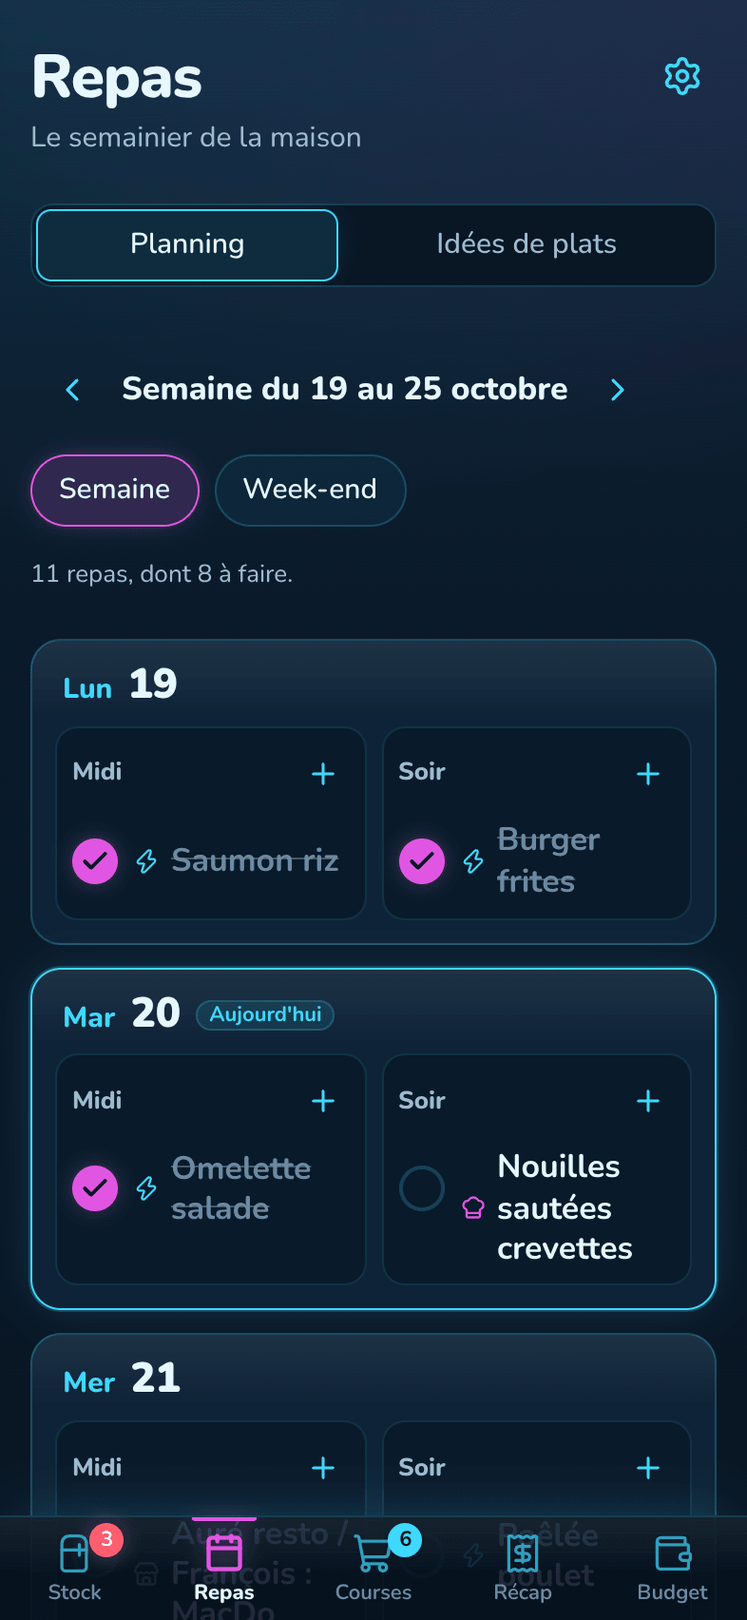
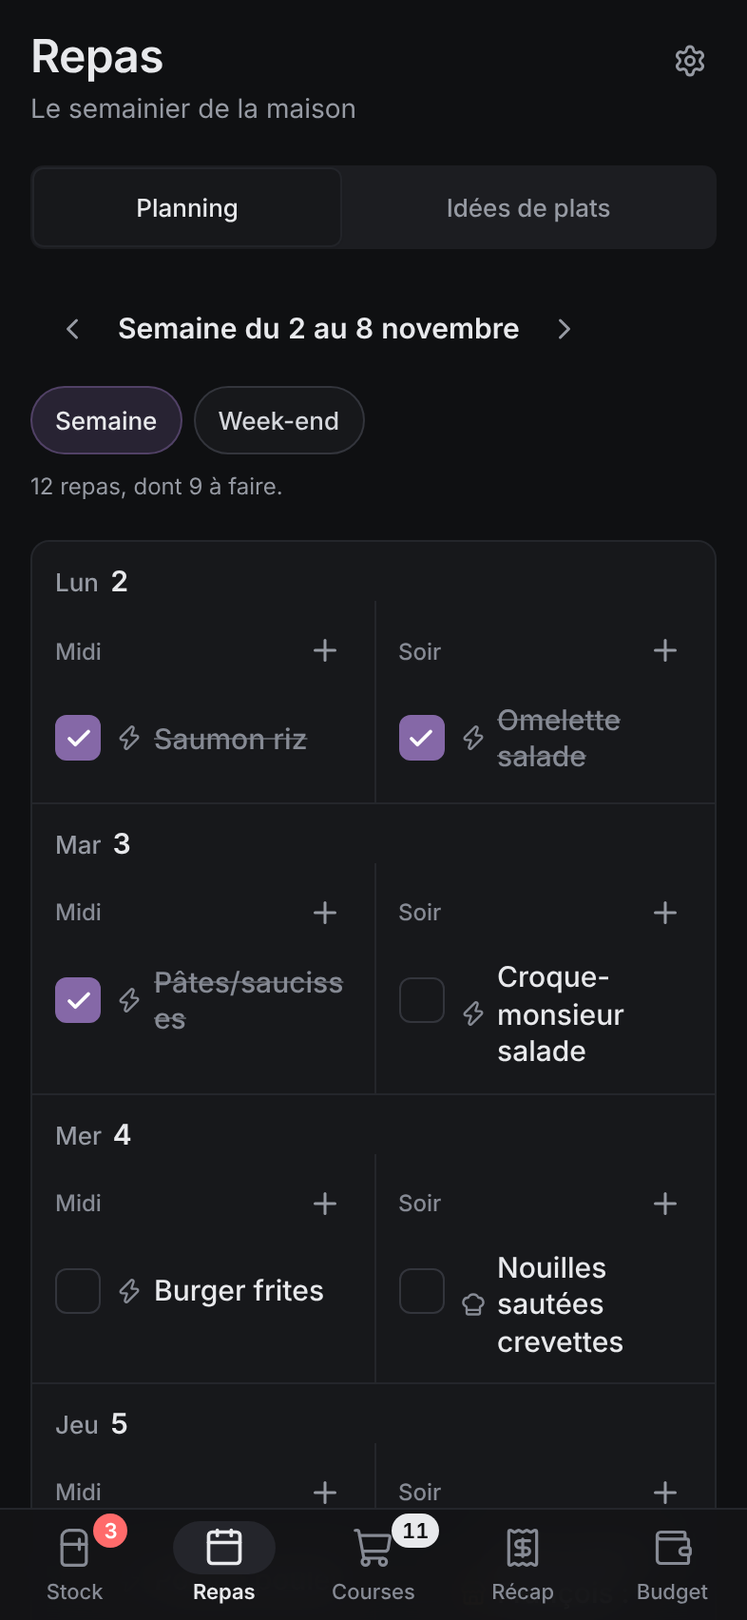
Documentation et captures de la charte v2
design/DESIGN.md décrit la charte v2 pour Cuisine (jetons, densité,
couleurs de données, icône) ; CLAUDE.md et README suivent. Captures
refaites avec des données d'exemple simulées.

Claude-Session: https://claude.ai/code/session_01H9uGifEaXxkMuqMiB9L3cZ

diff --git a/design/DESIGN.md b/design/DESIGN.md
@@ -1,23 +1,24 @@
-# atelier_Cuisine — design UI
+# Atelier Cuisine — design UI
 
-L'app de cuisine du foyer d'Auré et François : le stock du frigo et des placards, le semainier des repas, la liste de courses, les tickets de caisse et le budget.
+L'app de cuisine du foyer d'Auré et François : le stock du frigo et des placards, le semainier des repas, la liste de courses, les tickets de caisse et le budget. Utilisée à deux, sur Mac et surtout sur iPhone, en cuisine ou en magasin.
 
 **Tâche principale de l'interface :** montrer d'un coup d'œil ce qu'il faut finir en premier, puis ce qu'on mange et ce qu'on achète.
 
-## Direction : néon monochrome (charte v2 de la suite Atelier)
+## Direction : charte v2 « Linear » de la suite Atelier
 
-L'app suit la charte « néon monochrome » partagée par toutes les applications de la suite Atelier (Projets, Viz, Tab, Ciné, Trésorerie, Savoir, Nexus, Dates, Cuisine) : **chaque app est entièrement dans sa couleur signature**. Pour Cuisine, un **lilas pastel** (choix du foyer, à la place de l'orchidée `#E056E2` prévue par la suite) : `#C8B5F2` en néon, `#9B84DC` en clair. Fond, barre latérale, verre, traits, textes secondaires, halos et grille en dérivent par mélange et transparence, en néon (sombre) comme en clair. Il n'y a plus ni fond bleu nuit ni structure cyan (la v1 « néon holographique » est remplacée).
+L'app suit le système commun de la suite (règles complètes : `Atelier_Deploy/DESIGN.md`, contrat : `Atelier_Projets/docs/SUITE.md` §1) : **une structure neutre en gris froids**, la même dans toutes les apps, en clair comme en sombre, plate au repos, traits de 1 px, police Inter. Chaque app garde **sa couleur signature comme seul accent** ; pour Cuisine, la **lavande `#8568a7`** (`--atelier-sig-cuisine`, 4,5:1 avec du texte blanc).
 
-- **Néon (défaut)** : fond quasi noir teinté de lilas avec une fine grille et une lueur en haut, panneaux de verre cerclés d'un trait lilas lumineux avec halo, action principale en contour néon.
-- **Clair** : fond lilas très pâle avec la même grille, cartes blanches cerclées de lilas avec un léger halo, action principale pleine.
+- La lavande ne sert qu'à ce qui a un sens : bouton principal (plein, dans les deux thèmes), sélection (puce pressée, type de repas choisi, case cochée), focus, liens, l'icône de l'app, la courbe des prix et la jauge Sorties / Resto (une seule mesure).
+- Pas de halo, de lueur, de grille de fond, de `text-shadow`, de contour lumineux ni de barre de couleur à gauche. Une ombre seulement pour ce qui flotte : feuilles, toasts, bulle du graphique, barre « Valider & archiver ».
+- Navigation : l'onglet courant a un fond neutre (`--atelier-surface-3`), jamais de couleur.
 
 ### Le kit commun
 
-`frontend/src/styles/atelier-brand/atelier-brand.css` est une **copie exacte** du fichier de marque de la suite (source : Atelier_Projets `design-system/brand/`), avec la police `nunito-latin-wght-normal.woff2` (« Atelier Brand ») et sa licence `OFL-Nunito.txt`. Ne jamais l'éditer ici : toute modification se fait à la source puis dans chaque copie. Il définit, pour les deux thèmes, tous les jetons `--atelier-*` dérivés de la signature.
+`frontend/src/styles/atelier-brand/` contient des **copies verbatim** de `Atelier_Projets/design-system/brand/` : `atelier-brand.css` (jetons `--atelier-*`, marque, fenêtre « À propos »), `atelier-theme.js` (préférence de thème commune), `inter-latin-wght-normal.woff2`, `inter-latin-ext-wght-normal.woff2` et `LICENSE-Inter.txt`. Ne jamais les éditer ici : toute modification se fait à la source puis dans chaque copie (ils sont exclus du lint).
 
 - Activation : `<html data-atelier-app="cuisine">` (`frontend/index.html`).
-- Thème : néon = `data-theme="dark"` **et** classe `dark` ; clair = `data-theme="light"`. Le choix Néon / Clair / Selon le système reste dans les Réglages (préférence `atelier.reglages` en `localStorage`, néon par défaut) ; un script anti-flash dans `index.html` pose les marqueurs avant le premier rendu, puis `appliquerTheme` (`src/lib/donnees.tsx`) les tient à jour, y compris quand le système change de thème.
-- Couleurs littérales obligatoires alignées sur `--atelier-bg` : `#100f15` (signature à 6 % dans `#07070A`) pour la fenêtre Tauri (`backgroundColor`), le `theme-color` et le manifeste PWA ; `#f6f5fc` (5 % dans `#FBFBFD`) pour le `theme-color` en clair.
+- Thème : choix **Système / Clair / Sombre** dans Réglages → Apparence, branché sur `window.atelierTheme.set(pref)`. `atelier-theme.js` est inséré tel quel en script bloquant au début de `<head>` par `vite.config.ts` ; il pose `data-theme="light|dark"`, `data-theme-pref` et la classe `dark` avant l'affichage, et garde la préférence dans `localStorage["atelier:theme"]` (cookie `atelier_theme` sur le domaine de la suite quand l'app y est servie). L'ancienne préférence (`theme` dans `atelier.reglages`) est reprise une fois puis retirée.
+- Barre d'état : un petit script d'`index.html` suit `data-theme` et met `theme-color` à `#fbfbfc` (clair) ou `#0f1012` (sombre), les fonds `--atelier-bg`. Le manifeste PWA et la fenêtre Tauri partent de `#fbfbfc`.
 
 ### Jetons de l'app (`tokens.css`)
 
@@ -25,61 +26,47 @@ Les noms de l'app sont branchés sur le kit ; leurs valeurs suivent le thème to
 
 | Jeton | Branché sur | Rôle |
 |---|---|---|
-| `--nuit` / `--bg` | `--atelier-bg` | fond des écrans (toujours `background: var(--atelier-backdrop), var(--atelier-bg)`, jamais en `background-image`) |
-| `--nuit-2` / `--bg-creux` | `--atelier-sidebar` | barre latérale, zones creusées |
-| `--verre` / `--verre-plein` / `--surface` | `--atelier-surface` (86 % / opaque) | panneaux, listes, feuilles |
-| `--verre-haut` | lilas à 7 % | reflet en haut des panneaux |
-| `--survol` / `--selection` / `--champ-fond` | `--atelier-surface-2` / `-3` / `--atelier-field` | survol, sélection, champs |
-| `--contour` | `--atelier-border` | contour des cartes et panneaux (+ `--halo`) |
-| `--trait` | `--atelier-border-soft` | champs, boutons secondaires, puces |
-| `--ligne` | `--atelier-line` | séparateurs, lignes de tableau, grille des graphiques |
-| `--encre` / `--encre-2` / `--encre-3` | `--atelier-text` / `--atelier-muted` / muted adouci | texte, texte secondaire, texte tertiaire (≥ 4,5:1) |
-| `--signature` / `--action` / `--focus` | `--atelier-signature` (`#C8B5F2` / `#9B84DC`) | couleur signature, action principale, contour de focus |
-| `--signature-texte` / `--lavande-encre` | `--atelier-ink` | lilas en texte ou en icône (lisible sur les deux fonds) |
-| `--signature-douce` / `--lavande` | `--atelier-signature-soft` | élément actif, pastille |
-| `--signature-legere` | `--atelier-signature-faint` | survol |
-| `--signature-encre` | `--atelier-signature-contrast` | texte posé sur le lilas plein |
-| `--halo` / `--halo-fort` / `--ombre-feuille` | `--atelier-glow` / `--atelier-glow-strong` | cartes ; feuilles, menus, bulles, toasts |
-| `--glow-signature` / `--texte-neon` | `--atelier-signature-glow` / `--atelier-text-glow` | action principale ; titres d'écran |
-| `--frais` / `--bientot` / `--urgent` | inchangés : `#3DDC97` / `#FFB347` / `#FF5C6C` (clair `#12804F` / `#A85F00` / `#CC2B3B`) | fraîcheur (et montants négatifs pour le rouge) |
+| `--bg` | `--atelier-bg` | fond de la zone principale |
+| `--bg-creux` | `--atelier-sidebar` | barre latérale, barre d'onglets, fond d'un ticket déplié |
+| `--surface` | `--atelier-surface` | listes, cartes, feuilles, boutons |
+| `--survol` / `--selection` / `--champ-fond` | `--atelier-surface-2` / `-3` / `--atelier-field` | survol et rail des segments ; onglet courant ; champs |
+| `--contour` / `--trait` / `--ligne` | `--atelier-border` / `-border-soft` / `-line` | cartes ; champs, boutons, puces ; séparateurs |
+| `--encre` / `--encre-2` / `--encre-3` | `--atelier-text` / `-muted` / `-faint` | texte ; secondaire ; méta, icônes au repos |
+| `--signature` / `--signature-survol` | `--atelier-signature` / `-hover` | bouton principal, case cochée, focus |
+| `--signature-texte` | `--atelier-ink` | lavande en texte ou en icône (liens, numéros d'étapes) |
+| `--signature-douce` / `--signature-legere` | `--atelier-signature-soft` / `-faint` | sélection ; ligne du jour dans le semainier |
+| `--ombre-flottant` | `--atelier-glow-strong` | ce qui flotte seulement |
+| `--frais` / `--bientot` / `--urgent` | inchangés : `#3DDC97` / `#FFB347` / `#FF5C6C` (clair `#12804F` / `#A85F00` / `#CC2B3B`) | fraîcheur (et hausses de prix pour le rouge) |
 | `--boite` | inchangé : `#78B4FF` (clair `#2F6FD6`) | produit mis dans une boîte |
 | `--data-ali` / `--data-maison` | inchangés : `#22A86B` / `#9D7BF0` (clair `#1A8F5B` / `#7A56D8`) | budgets Alimentaire / Maison & hygiène |
 
-La couche de matières et les composants sont dans [`neon.css`](../frontend/src/styles/neon.css).
-
-### Couleur signature : le lilas pastel
-
-La charte attribue une couleur à chaque app ; pour Cuisine elle prévoit l'orchidée `#E056E2`. Le foyer a préféré un **lilas pastel** (après un essai en gris argent) : `tokens.css` remplace `--atelier-signature` par un lilas `#C8B5F2` en néon (garde la lueur) et un lilas soutenu `#9B84DC` en clair (texte `#0B0B0F` posé dessus à 6:1), sans toucher au kit de la suite. Tout le reste (fond, verre, traits, halos) en dérive comme avant.
-
-Depuis la v2, elle n'est plus une touche sur une base cyan : **toute l'interface en dérive**. Bouton principal (plein en clair, contour néon en sombre), onglet actif (barre à gauche ou au-dessus, fond en transparence, halo), liens, titres de groupe, icônes, cases cochées, focus, contours et halos des cartes, grille du fond, courbe des prix et jauge globale (une seule mesure, sans sens par couleur).
+Densité : les jetons `--t-base`, `--t-champ`, `--h-ctrl`, `--h-ctrl-sm`, `--h-row` valent 15 px / 16 px / 44 / 36 / 52 px au téléphone (cibles tactiles, pas de zoom automatique de Safari) et 13 px / 14 px / 32 / 28 / 40 px sur un écran de 860 px et plus avec une souris.
 
 ### Couleurs de données
 
-- **Fraîcheur** (spec du foyer) : rouge à moins de 2 jours, orange de 2 à 5 jours, vert au-delà, **bleu** pour un produit mis en boîte. Ces couleurs ne prennent jamais le lilas.
-- **Budget** : vert pour l'Alimentaire (rayons 1 à 9), violet pour Maison & hygiène (rayons 10 et 11), lilas de la signature pour Sorties / Resto. Palette validée (séparation pour les daltonismes, contraste sur les deux fonds) ; le graphique a une légende, une bulle au survol et une vue tableau.
-- Le rouge ne sert qu'aux alertes et aux hausses de prix.
-
-## Matières
-
-1. **Verre** : panneaux translucides (flou d'arrière-plan), trait lilas de 1 px et halo, reflet lilas en haut. Remplacé par un fond opaque si l'utilisateur réduit la transparence.
-2. **Néon** : les enseignes « À finir en premier » et les chiffres du compte à rebours brillent dans la couleur de **leur donnée** (rouge, orange, vert), l'action principale en lilas.
-3. **Fond** : quasi noir (ou très clair) teinté de lilas, fine grille de 32 px et lueur lilas en haut.
+- **Fraîcheur** (spec du foyer) : rouge à moins de 2 jours, orange de 2 à 5 jours, **bleu** pour un produit mis en boîte. Dans les listes, une pastille de 8 px devant le nom et l'échéance en couleur ; un produit frais reste neutre (seuls les états qui demandent d'agir sont colorés). Les tuiles « À finir en premier » sont à peine teintées de la couleur de leur donnée, le chiffre du compte à rebours dans cette couleur.
+- **Budget** : vert pour l'Alimentaire (rayons 1 à 9), violet pour Maison & hygiène (rayons 10 et 11), lavande de la signature pour Sorties / Resto. Le graphique a une légende, une bulle au survol et une vue tableau.
+- Le vert « à la maison » marque les ingrédients disponibles (recette, jauge des idées). Le rouge ne sert qu'aux alertes et aux hausses de prix.
 
 ## Typographie
 
-**Nunito** (variable), la sans-serif arrondie de la charte, embarquée pour fonctionner hors ligne sur Mac. Titres d'écran 32 px (44 px sur Mac) en graisse 850 ; corps 17 px (taille iOS, pas de zoom automatique dans Safari) ; chiffres du compte à rebours 52 px en graisse 900, avec un halo de leur couleur ; montants en chiffres tabulaires. La marque suit le balisage commun de la suite (`.atelier-brand` : tuile cerclée de lilas avec l'icône Lucide `CookingPot`, puis le nom `atelier_Cuisine` en « Atelier Brand », « atelier_ » estompé).
+**Inter** variable, embarquée (aucune requête réseau), variantes `cv11` et `ss03`. Hiérarchie portée par la graisse (400 / 500 / 600). Sur Mac : base 13 px, titre d'écran dans la barre haute en 13 px / 600, titres de section 15 px / 600. Au téléphone : base 15 px, titre d'écran 24 px / 600. Étapes de recette en 17 px, interligne 1,6, numérotées dans une pastille lavande : elles se lisent à un bras de distance. Chiffres tabulaires pour les montants, dates, quantités et le compte à rebours. Les emoji des rayons et des recettes sont des données du foyer (spec), pas des icônes d'interface : toutes les icônes viennent de Lucide.
+
+La marque suit le balisage commun : `button.atelier-brand` > `.atelier-brand__tile` (carré arrondi en dégradé de la lavande, glyphe Lucide `utensils` blanc) + « Atelier » en gris puis « Cuisine ». Un clic ouvre « À propos » (`dialog.atelier-about`). Composant : `frontend/src/components/Marque.tsx`.
 
 ## Les 5 onglets
 
 | Onglet | Icône | Contenu |
 |---|---|---|
-| **Stock** | `Refrigerator` | « À finir en premier » en enseignes néon, saisie en une ligne, produits par emplacement (frigo, corbeille, placard, congélateur, maison) avec niveau rapide, date de l'emballage, mise en boîte et note |
-| **Repas** | `Calendar` | semainier Lundi → Dimanche (ou focus week-end), Midi / Soir, trois types de repas (recette, assemblage rapide, extérieur), cases « cuisiné » ; idées de plats dans le même onglet |
+| **Stock** | `Refrigerator` | « À finir en premier » en tuiles avec compte à rebours, saisie en une ligne, produits par emplacement (frigo, corbeille, placard, congélateur, maison) avec niveau rapide, date de l'emballage, mise en boîte et note |
+| **Repas** | `Calendar` | semainier Lundi → Dimanche (ou focus week-end) : un jour par ligne, Midi et Soir côte à côte ; trois types de repas (recette, assemblage rapide, extérieur), cases « cuisiné » ; idées de plats et recettes pas à pas dans le même onglet |
 | **Courses** | `ShoppingCart` | liste par les 11 rayons, articles proposés depuis le planning, mode magasin (prix et date en cochant), « Valider & archiver » |
-| **Récap** | `Receipt` | bilan du dernier panier, tickets façon ticket de caisse (bord dentelé, pointillés, lignes par rayon), import PDF / photo / texte avec vérification |
+| **Récap** | `Receipt` | bilan du dernier panier, historique des tickets dépliables par rayon, import PDF / photo / texte avec vérification |
 | **Budget** | `Wallet` | plafonds par périmètre, indicateurs du mois, six mois en barres, évolution des prix |
 
-Mise en page : barre d'onglets en bas sur iPhone (zone de sécurité respectée), barre latérale de 248 px sur Mac (≥ 860 px), contenu centré sur 760 px, feuilles qui montent du bas sur iPhone et dialogues centrés sur Mac.
+Mise en page :
+- **Mac (≥ 860 px)** : coquille du portail : barre latérale de 232 px (marque en haut, onglets de 30 px, Réglages en pied), barre haute collante de 44 px avec le titre de l'écran, son résumé et son action, contenu sur une colonne de 880 px, lignes de liste de 40 px, feuilles en dialogues centrés.
+- **iPhone** : barre d'onglets en bas (pastille grise derrière l'icône courante, zone de sécurité respectée) plutôt que la rangée de pastilles du portail, parce que l'app se tient d'une main en magasin ; Réglages en haut à droite ; feuilles qui montent du bas ; lignes de 52 px.
 
 ## Principes
 
@@ -87,28 +74,30 @@ Mise en page : barre d'onglets en bas sur iPhone (zone de sécurité respectée)
 2. **Saisie en une ligne.** « 2 kg de patates » donne quantité, unité, rayon, emplacement et date estimée, grâce au catalogue du foyer.
 3. **Chaque action dit ce qu'elle fait.** « Valider & archiver », « C'est cuisiné », « Confirmer et ajouter au stock & budget » ; le toast reprend le même verbe.
 4. **On vérifie avant d'enregistrer.** Un ticket lu (avec ou sans IA) passe toujours par une modale de vérification ; une déduction de stock se décoche.
-5. **Accessibilité.** Cibles de 44 px, focus lilas visible, contrastes vérifiés sur les deux thèmes, `prefers-reduced-motion` et `prefers-reduced-transparency` respectés.
+5. **Accessibilité.** Cibles de 44 px au téléphone, anneau de focus lavande visible, contrastes vérifiés sur les deux thèmes, `prefers-reduced-motion` et `prefers-reduced-transparency` respectés.
 
 ## Icône
 
-Sur Mac, l'icône de l'app (Dock, Finder, Launchpad) est le **logo complet** (`logo-atelier-cuisine.png`, contour lilas, intérieur cyan), comme les autres apps de la suite : `icone/logo-mac-1024.png`, puis `npx tauri icon design/icone/logo-mac-1024.png`. La petite cocotte ci-dessous reste l'icône de l'app iPhone et des favicons.
+L'icône de l'app est la même partout : carré arrondi (rayon 22 %) en dégradé vertical de la lavande (`#9E88BB` → `#8568A7`), glyphe Lucide `utensils` en trait blanc. Sources dans [`icone/`](icone/) :
 
-Version simplifiée de la charte (le carré arrondi seul, lisible à 64 px) : fond nuit teinté de lilas, cadre chromé lilas lumineux, cocotte et vapeur lilas, étincelles sur les arêtes. Logo complet (avec l'étiquette `atelier_Cuisine`) : [`logo-atelier-cuisine.png`](logo-atelier-cuisine.png). Sources dans [`icone/`](icone/) : `icone-carre.svg` pour l'iPhone, `icone-mac.svg` et `icone-mac-1024.png` pour macOS. Les PNG de l'app se régénèrent avec `node frontend/scripts/icones.mjs` et `npx tauri icon design/icone/icone-mac-1024.png`.
+- `icone-carre.svg` (copie de `frontend/public/icone.svg`) : favicon, PWA, iPhone. Les PNG se régénèrent avec `cd frontend && npm install --no-save sharp && node scripts/icones.mjs`.
+- `icone-mac.svg` et `icone-mac-1024.png` : la même icône sur la grille macOS (carré de 824 px, ombre du système), pour le Dock : `cd frontend && npx tauri icon ../design/icone/icone-mac-1024.png -o src-tauri/icons` (supprimer ensuite les dossiers `android/` et `ios/` générés).
 
 ## Captures
 
-Ces captures montrent encore la v1 (fond bleu nuit, structure cyan) : à refaire avec la charte v2.
+Données d'exemple simulées (aucune donnée réelle du foyer).
 
 | iPhone | | |
 |---|---|---|
 | ![Stock](captures/iphone-1-stock.png) | ![Repas](captures/iphone-2-repas.png) | ![Courses en mode magasin](captures/iphone-3-courses.png) |
 | ![Récap](captures/iphone-4-recap.png) | ![Ticket déplié](captures/iphone-4b-ticket.png) | ![Budget](captures/iphone-5-budget.png) |
-| ![Import du ticket Carrefour](captures/iphone-6-import-ticket.png) | ![Planifier un repas](captures/iphone-7-planifier.png) | ![Cuisiner : déduction FEFO](captures/iphone-8-cuisiner.png) |
-| ![Thème clair](captures/iphone-clair-stock.png) | | |
+| ![Import d'un ticket](captures/iphone-6-import-ticket.png) | ![Planifier un repas](captures/iphone-7-planifier.png) | ![Cuisiner : déduction FEFO](captures/iphone-8-cuisiner.png) |
+| ![Recette pas à pas](captures/iphone-9-recette.png) | ![Thème clair](captures/iphone-clair-stock.png) | |
 
 **Mac**
 
 ![Stock sur Mac](captures/mac-1-stock.png)
 ![Repas sur Mac](captures/mac-2-repas.png)
+![Courses sur Mac](captures/mac-3-courses.png)
 ![Récap sur Mac](captures/mac-4-recap.png)
 ![Budget sur Mac](captures/mac-5-budget.png)

diff --git a/README.md b/README.md
@@ -1,6 +1,6 @@
-# atelier_Cuisine
+# Atelier Cuisine
 
-L'app de cuisine du foyer d'Auré et François : le stock du frigo et des placards avec les dates de péremption, le semainier des repas, la liste de courses, les tickets de caisse archivés et le budget. Une seule app, sur **Mac** (app à double-cliquer) et sur **iPhone** (app sur l'écran d'accueil), synchronisée en direct, dans la charte « néon monochrome » de la suite Atelier : toute l'app en lilas pastel.
+L'app de cuisine du foyer d'Auré et François : le stock du frigo et des placards avec les dates de péremption, le semainier des repas, la liste de courses, les tickets de caisse archivés et le budget. Une seule app, sur **Mac** (app à double-cliquer) et sur **iPhone** (app sur l'écran d'accueil), synchronisée en direct, dans la charte v2 « Linear » de la suite Atelier : structure neutre claire ou sombre, accent lavande.
 
 ![Stock sur Mac](design/captures/mac-1-stock.png)
 
@@ -8,7 +8,7 @@ L'app de cuisine du foyer d'Auré et François : le stock du frigo et des placar
 
 | Onglet | |
 |---|---|
-| **Stock** | Ce qu'il y a dans le frigo, la corbeille, le placard, le congélateur et la salle de bain. « À finir en premier » affiche un compte à rebours lumineux pour chaque produit qui arrive à échéance. Chaque produit a une quantité exacte **ou** un niveau rapide (plein, moitié, assez pour 1 repas, presque fini), une date d'emballage, une date de **mise en boîte** (badge bleu) et une note libre. La saisie « 6 œufs » devine le produit du catalogue, le rayon, l'emplacement et une date. |
+| **Stock** | Ce qu'il y a dans le frigo, la corbeille, le placard, le congélateur et la salle de bain. « À finir en premier » affiche un compte à rebours pour chaque produit qui arrive à échéance. Chaque produit a une quantité exacte **ou** un niveau rapide (plein, moitié, assez pour 1 repas, presque fini), une date d'emballage, une date de **mise en boîte** (badge bleu) et une note libre. La saisie « 6 œufs » devine le produit du catalogue, le rayon, l'emplacement et une date. |
 | **Repas** | Semainier Lundi → Dimanche (ou focus week-end), Midi et Soir. Trois types de repas : **recette** (déduit les quantités), **assemblage rapide** (Burger frites, Saumon riz… déduit les produits) et **extérieur** (resto, MacDo : rien n'est déduit, le coût va dans Sorties / Resto). Les favoris du foyer sont proposés en un geste. **Cuisiner ce repas** déduit le stock en prenant d'abord ce qui périme le plus tôt. Les idées de plats selon le stock sont dans le même onglet. |
 | **Courses** | Liste rangée selon les 11 rayons du foyer. Un bouton ajoute ce qui manque pour les repas prévus (besoins − stock − déjà sur la liste). En **mode magasin**, cocher un article permet de noter son prix et sa date. **Valider & archiver** crée le ticket dans Récap, fait entrer l'alimentaire dans le stock et alimente le budget. |
 | **Récap** | Bilan du dernier panier (total, articles, Alimentaire / Maison & hygiène, les 3 plus chers) et historique des tickets, dépliables par rayon. **Importer un ticket** : e-ticket PDF, photo ou texte. Le format Carrefour est lu sans IA ; sinon l'IA (Ollama en local ou Claude) décode le ticket, puis une fenêtre de vérification permet de corriger avant de confirmer. **Reprendre des articles** renvoie des produits vers la liste ; **Markdown** copie le récapitulatif. |
@@ -54,14 +54,14 @@ L'app web est hébergée sur Vercel (équipe FiKozZ, projet `atelier-cuisine`). 
 │   sinon → Ollama (Mac) ──────┼──▶ http://localhost:11434 (mode local)         │
 │        ou Claude (cloud) ────┼──────┘                                          │
 └──────────────────────────────┘      └──────────────────────────────────────────┘
-design/  charte néon, jetons, guide, icône, captures
+design/  charte v2, jetons, guide, icône, captures
 ```
 
 | Dossier | Contenu |
 |---|---|
 | [`frontend/`](frontend/) | React 19 + TypeScript + Vite. PWA (service worker, manifeste, notifications push). `src-tauri/` enveloppe le même code en app Mac native. La logique métier testée est dans `src/lib/` (stock FEFO, tickets, budget). |
 | [`backend/`](backend/) | Migrations SQL, catalogues (recettes, produits, favoris), fonctions Edge, tests des migrations. Voir [backend/README.md](backend/README.md). |
-| [`design/`](design/) | Guide de design néon, palette, typographie, icône, captures. Voir [design/DESIGN.md](design/DESIGN.md). |
+| [`design/`](design/) | Guide de design (charte v2 « Linear »), palette, typographie, icône, captures. Voir [design/DESIGN.md](design/DESIGN.md). |
 | [`CONTEXT_SPEC.md`](CONTEXT_SPEC.md) | Cahier des charges du foyer : habitudes, 5 onglets, référentiel, recettes, format des tickets. |
 | [`.github/workflows/`](.github/workflows/) | Compilation de l'app Mac (Intel + Apple Silicon) et publication du .dmg. |
 

diff --git a/CLAUDE.md b/CLAUDE.md
@@ -1,6 +1,6 @@
-# Instructions pour Claude — `atelier_Cuisine`
+# Instructions pour Claude — Atelier Cuisine
 
-Avant toute modification, lis [`CONTEXT_SPEC.md`](CONTEXT_SPEC.md) (cahier des charges du foyer d'Auré et François) et [`design/DESIGN.md`](design/DESIGN.md) (charte néon). Interface, libellés, messages et réponses de l'IA : **en français**.
+Avant toute modification, lis [`CONTEXT_SPEC.md`](CONTEXT_SPEC.md) (cahier des charges du foyer d'Auré et François) et [`design/DESIGN.md`](design/DESIGN.md) (charte v2 « Linear » de la suite). Interface, libellés, messages et réponses de l'IA : **en français**.
 
 ## Stack (celle de l'app en production)
 
@@ -25,7 +25,7 @@ Correspondances de noms : `stockLevel` FULL / HALF / ONE_MEAL / LOW → `plein` 
 - TypeScript strict, pas de `any`. Les 11 rayons existent en double (table `aisles` et `frontend/src/lib/rayons.ts`) ; la normalisation des noms aussi (`normaliser.ts` et fonctions SQL) : modifier les deux côtés.
 - Toute nouvelle table : RLS activée, politiques par `user_id`, fonctions SQL en `security invoker` avec `search_path = ''`.
 - Une session de courses validée (liste ou ticket importé) passe toujours par `archiver_courses` : Récap, Stock et Budget restent cohérents.
-- Design : charte « néon monochrome » de la suite Atelier (`design/DESIGN.md`) : **toute l'app est dans un lilas pastel** (`--atelier-signature` remplacée dans `tokens.css` : `#C8B5F2` en néon, `#9B84DC` en clair, au lieu de l'orchidée `#E056E2` de la suite), en néon (sombre) comme en clair, sans bleu nuit ni cyan de structure. `frontend/src/styles/atelier-brand/atelier-brand.css` est une copie exacte du fichier de la suite (avec la police Nunito « Atelier Brand ») : ne jamais l'éditer ici. `<html data-atelier-app="cuisine">` ; thème = `data-theme="dark"` + classe `dark` (néon, défaut) ou `data-theme="light"`, posés par le script anti-flash d'`index.html` et `appliquerTheme` (`lib/donnees.tsx`). `tokens.css` branche les jetons de l'app sur les `--atelier-*` du kit : fond `background: var(--atelier-backdrop), var(--atelier-bg)` (jamais en `background-image`), cartes `--contour` + `--halo`, champs et boutons secondaires `--trait`, séparateurs `--ligne`, texte ou icône en couleur `--signature-texte` (jamais `--signature` pour un texte), actif `--signature-douce`, survol `--signature-legere`, focus `--atelier-focus`. Action principale (`.bouton--action`) pleine en clair, contour néon en sombre. Les couleurs qui portent un sens ne changent pas : fraîcheur `--frais` / `--bientot` / `--urgent` (les enseignes « À finir en premier » et le compte à rebours gardent leur halo dans ces couleurs), `--boite`, budgets `--data-ali` / `--data-maison`. Cibles tactiles de 44 px.
+- Design : charte v2 « Linear » de la suite Atelier (`design/DESIGN.md`, règles communes dans `Atelier_Deploy/DESIGN.md`) : structure neutre gris froid commune à la suite, clair et sombre, plate au repos, traits de 1 px, police Inter ; la signature de Cuisine, **lavande `#8568a7`** (`--atelier-sig-cuisine`), ne sert qu'au bouton principal (plein), à la sélection, au focus, aux liens et à l'icône (Lucide `utensils`). Pas de halo, de lueur, de grille de fond ni de barre de couleur à gauche. `frontend/src/styles/atelier-brand/` contient des **copies verbatim** de la suite (`atelier-brand.css`, `atelier-theme.js`, les deux woff2 Inter et leur licence) : ne jamais les éditer ici. `<html data-atelier-app="cuisine">` ; thème = préférence commune Système / Clair / Sombre de `atelier-theme.js` (`window.atelierTheme`, `localStorage["atelier:theme"]`), inséré en tête de `<head>` par `vite.config.ts`, qui pose `data-theme` + classe `dark`. `tokens.css` branche les jetons de l'app sur les `--atelier-*` ; `app.css` porte tous les composants. Les couleurs qui portent un sens ne changent pas : fraîcheur `--frais` / `--bientot` / `--urgent` (seuls l'urgent et le bientôt sont colorés), `--boite`, budgets `--data-ali` / `--data-maison`. Cibles tactiles de 44 px au téléphone, densité Mac (13 px, lignes de 40 px) avec une souris.
 
 ## Commandes
 
